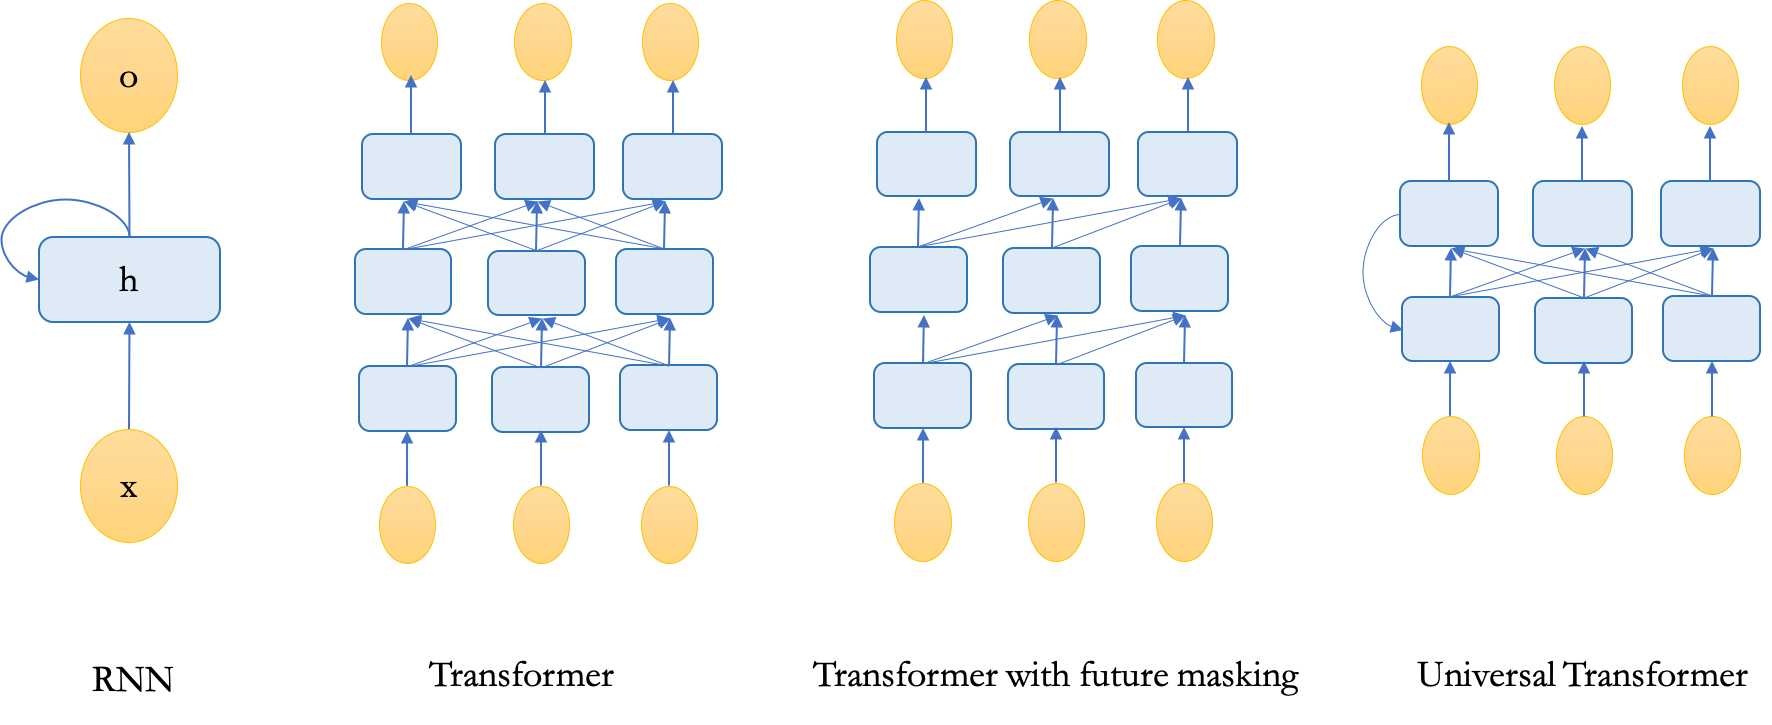
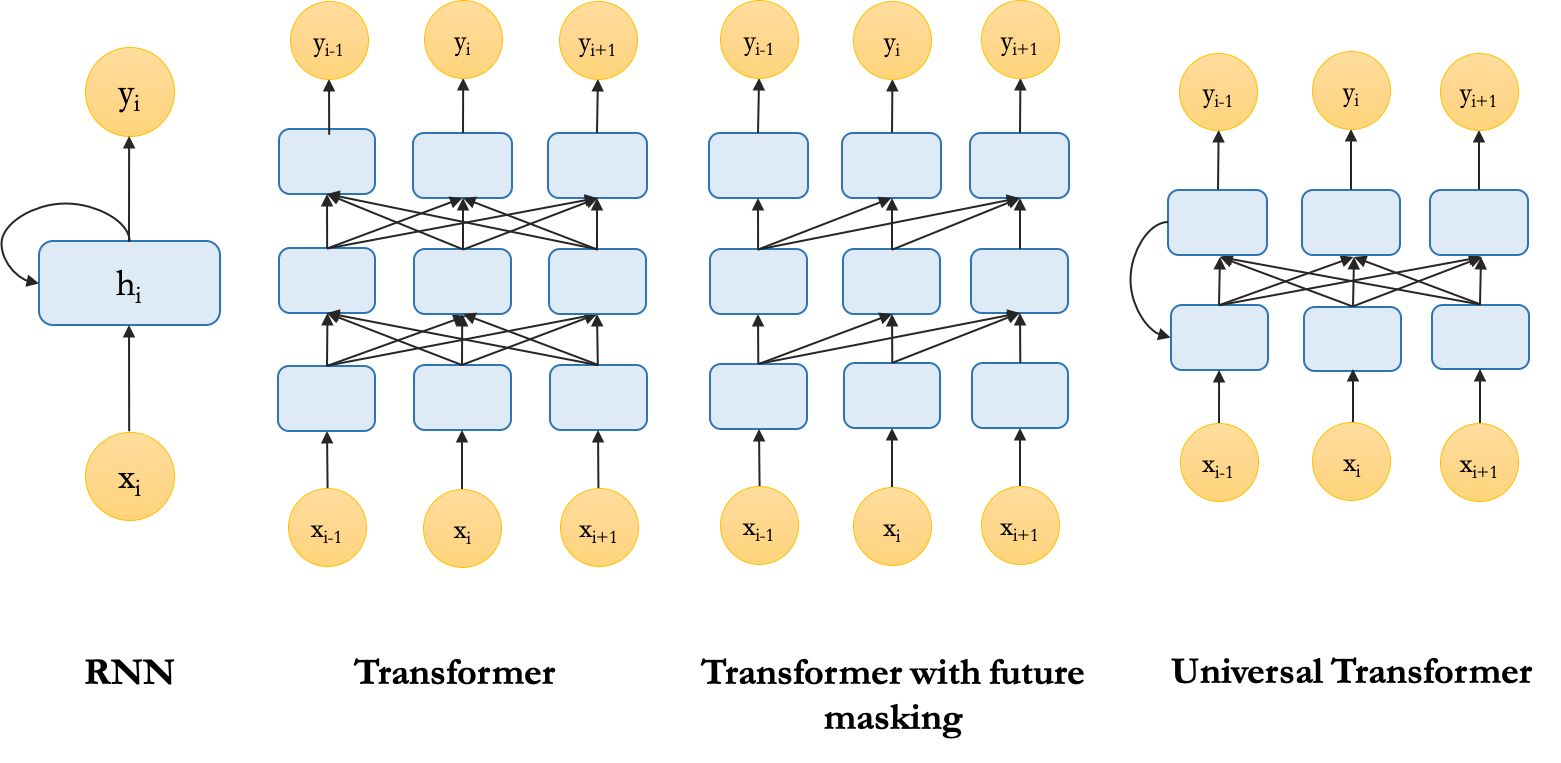
update posts

diff --git a/articles/2020-05/recurrence.html b/articles/2020-05/recurrence.html
@@ -197,21 +197,7 @@ Here, we distinguish between three main sources of this bias:</p>
 
 <p>We can empirically examine the benefits of each of these biases. To do so, we will modify the standard Transformer to have an architecture with specifications that are similar to RNNs and we measure how the performance of the models change as we include more aspects of the recurrent inductive bias.</p>
 
-<!--
-![rnn](img/rnn_images/rnn.png){:width="250px" style="float: left;"}
-![transformer](img/rnn_images/transformer.png){:width="250px" style="float: left; margin-right:10px"}
-![sequential transformer](img/rnn_images/seqtrans.png){:width="250px" style="float: left; margin-right:10px"}
-![sequential universal transformer](img/rnn_images/utrans.png){:width="250px" style="margin-right:10px"} -->
-
-<p style="">
-<img src="img/rnn_images/rnn.png" alt="rnn" width="250px" style="float: left;" />
-<img src="img/rnn_images/transformer.png" alt="transformer" width="250px" style="margin-right:10px" />
-</p>
-
-<p style="">
-<img src="img/rnn_images/seqtrans.png" alt="sequential transformer" width="250px" style="float: left; margin-right:10px" />
-<img src="img/rnn_images/utrans.png" alt="sequential universal transformer" width="250px" style="margin-right:10px" />
-</p>
+<p><img src="img/rnn_images/models.png" alt="models" width="250px" /></p>
 
 <p>We employ a standard two-layer unidirectional LSTM and three different variants of Transformers:
 (1) transformer: a standard six-layer Transformer encoder with a class token (<kbd>CLS</kbd>) for classification (BERT style),
